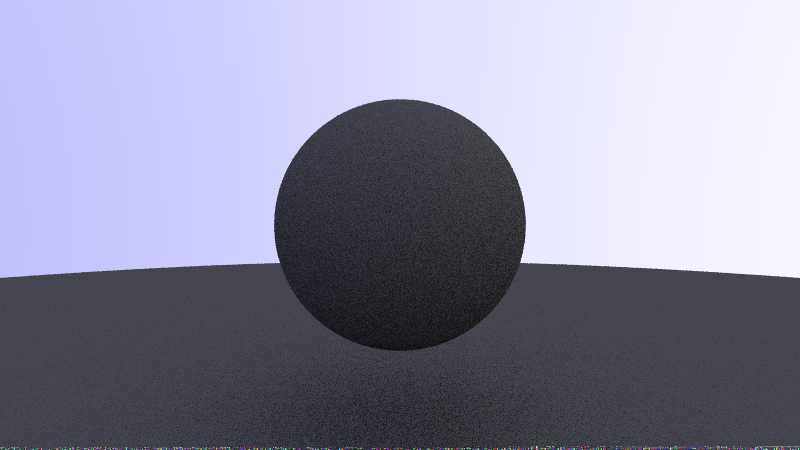
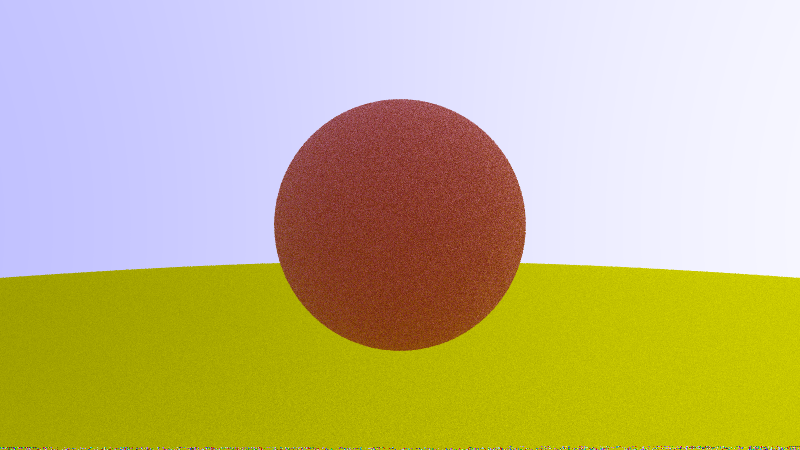
feat : made metal materials

diff --git a/lib/camera.h b/lib/camera.h
@@ -10,6 +10,7 @@
 #define STB_IMAGE_WRITE_IMPLEMENTATION
 #include "./stb_image_write.h"
 
+#include "material.h"
 #include "commons.h"
 #include "hittable.h"
 #include "color.h"
@@ -37,8 +38,8 @@ public:
 
                 for (int sample = 0 ; sample < sampling_factor ; sample++)
                 {
-                    auto dx = rnd_double() + -0.5;
-                    auto dy = rnd_double() + -0.5;
+                    auto dx = random_double() + -0.5;
+                    auto dy = random_double() + -0.5;
                     auto sample_point = point + dx*u_delta + dy*v_delta;
                     auto direction_pointer = sample_point - camera_center;
                     direction_pointer = unit_vector(direction_pointer);
@@ -57,7 +58,7 @@ public:
                 image_data[i * width * 3 + j * 3 + 2] += ib;
             }
         }
-        stbi_write_png("../Images/diffuse_Lambertian .png",width,height,3,image_data,width*3);
+        stbi_write_png("../Images/metal-diffuse.png",width,height,3,image_data,width*3);
     }
 private:
     int width{},height{};
@@ -91,9 +92,12 @@ private:
             return {0,0,0};
         if (world.hit(r,interval(0.0001,infinity),h))
         {
-            vec3 dir = unit_vector(h.normal + random_unit_vector());
-            ray dr(h.hp, dir);
-            return 0.1* ray_color(dr,world,depth-1);
+            ray scattered;
+            color attenuation;
+            if (h.mat->scatter(r,h,attenuation,scattered)) {
+                return attenuation * ray_color(scattered,world,depth-1);
+            }
+            return {0,0,0};
         }
         auto a = (r.get_direction().x() + 1.0)*0.5;
         auto c = a*color(1.0,1.0,1.0) + (1-a)*color (0.5,0.5,1.0);

diff --git a/lib/material.h b/lib/material.h
@@ -4,16 +4,52 @@
 
 #ifndef MATERIAL_H
 #define MATERIAL_H
+
 #include "commons.h"
-class hit_record;
+
+#include "hittable.h"
+
 
 class material{
 
 public:
     virtual ~material() = default;
 
-    virtual bool scatter(const ray& r_in,const hit_record& h, color& attenuation, ray& scattered) = 0;
+    virtual bool scatter(const ray& r_in,const hit_record& h, color& attenuation, ray& scattered) const = 0;
 };
 
+class lambertian : public material{
+public:
+    lambertian(const color& a) : albedo(a){}
 
+    bool scatter(const ray& r_in,const hit_record& h, color& attenuation, ray& scattered)
+    const override{
+        auto dir = unit_vector(h.hp + random_unit_vector());
+        if (dir.near_zero()){
+            dir = h.hp;
+        }
+        scattered = ray(h.hp, dir);
+        attenuation = albedo;
+        return true;
+    }
+
+private:
+    color albedo;
+};
+
+class metal : public material{
+public:
+    metal(const color& a) : albedo(a) {}
+
+    bool scatter(const ray& r_in, const hit_record& h, color& attenuation, ray& scattered)
+    const override {
+        vec3 reflected = reflect(unit_vector(r_in.get_direction()), h.normal);
+        scattered = ray(h.hp, reflected);
+        attenuation = albedo;
+        return true;
+    }
+
+private:
+    color albedo;
+};
 #endif //MATERIAL_H

diff --git a/main.cpp b/main.cpp
@@ -3,14 +3,26 @@
 #include "./lib/hittable_list.h"
 #include "./lib/sphere.h"
 #include "./lib/camera.h"
+#include "./lib/material.h"
+#include "./lib/color.h"
 
 using namespace std;
 int main() {
 
     //object creation on scene
     hittable_list world;
-    world.add(make_shared<sphere>(point3(0,0,-1), 0.3));
-    world.add(make_shared<sphere>(point3(0,-100.5,-1), 100));
+    auto material_ground = make_shared<lambertian>(color(0.8, 0.8, 0.0));
+    auto material_center = make_shared<lambertian>(color(0.7, 0.3, 0.3));
+    auto material_left   = make_shared<metal>(color(0.8, 0.8, 0.8));
+    auto material_right  = make_shared<metal>(color(0.8, 0.6, 0.2));
+
+
+
+
+    world.add(make_shared<sphere>(point3(0,0,-1), 0.3,material_center));
+    world.add(make_shared<sphere>(point3(0,-100.5,-1), 100,material_ground));
+    world.add(make_shared<sphere>(point3(-0.7,    0.0, -1.0),   0.3, material_left));
+    world.add(make_shared<sphere>(point3( 0.7,    0.0, -1.0),   0.3, material_right));
     //
     camera c;
     c.render(world);

diff --git a/lib/commons.h b/lib/commons.h
@@ -8,33 +8,39 @@
 #include <limits>
 #include "cstdlib"
 #include <memory>
-#include "interval.h"
-#include "color.h"
+
 
 // Usings
+
 using std::shared_ptr;
 using std::make_shared;
 using std::sqrt;
 
 // Constants
+
 const double infinity = std::numeric_limits<double>::infinity();
 const double pi = 3.1415926535897932385;
 
 // Utility Functions
+
 inline double degrees_to_radians(double degrees) {
     return degrees * pi / 180.0;
 }
-inline double rnd_double(){
-    return rand() / (RAND_MAX+1.0);
+
+inline double random_double() {
+    return rand() / (RAND_MAX + 1.0);
 }
-inline double rnd_double_rng(double min, double max){
-    return min + rnd_double()*(max-min);
+
+inline double random_double(double min, double max) {
+    return min + (max-min)*random_double();
 }
 
 // Common Headers
+
+#include "interval.h"
+#include "color.h"
 #include "ray.h"
 #include "vec3.h"
-
 
 
 #endif //COMMONS_H

diff --git a/lib/sphere.h b/lib/sphere.h
@@ -4,12 +4,14 @@
 
 #ifndef SPHERE_H
 #define SPHERE_H
+#include <utility>
 #include "commons.h"
 #include "hittable.h"
 #include "ray.h"
 class sphere : public hittable{
 public:
-    sphere(point3 center, double radius) : center(center), radius(radius){}
+    //Beware this std::move might create problems;
+    sphere(point3 center, double radius, shared_ptr<material> m) : center(center), radius(radius), mat(std::move(m)){}
     bool hit(ray &r, interval ray_i, hit_record &h) const override {
         auto oc = r.get_start() - center;
         auto a = dot(r.get_direction(),r.get_direction());
@@ -34,11 +36,13 @@ public:
         h.hp = r.at(root);
         auto normal = (h.hp - center)/radius;
         h.set_face_normal(r,normal);
+        h.mat = mat;
 
         return true;
     }
 private:
     vec3 center;
+    shared_ptr<material> mat;
     double radius;
 };
 #endif //SPHERE_H

diff --git a/lib/vec3.h b/lib/vec3.h
@@ -56,9 +56,13 @@ class vec3{
         double length(){
             return sqrt(length_squared());
         }
+        [[nodiscard]] bool near_zero() const {
+            auto s = 1e-8;
+            return (fabs(e[0]) < s) && (fabs(e[1]) < s) && (fabs(e[2]) < s);
+        }
 
         static vec3 random_vector(double min, double max){
-            return {rnd_double_rng(min,max),rnd_double_rng(min,max),rnd_double_rng(min,max)};
+            return {random_double(min,max),random_double(min,max),random_double(min,max)};
         }
 };
 using point3 = vec3;
@@ -113,6 +117,9 @@ inline vec3 random_on_hemisphere(const vec3& normal){
         return v;
     else
         return -v;
+}
+vec3 reflect(const vec3& v, const vec3& n) {
+    return v - 2*dot(v,n)*n;
 }
 #endif //VEC3_H
 

diff --git a/lib/hittable.h b/lib/hittable.h
@@ -4,11 +4,13 @@
 
 #ifndef HITTABLE_H
 #define HITTABLE_H
-#include "commons.h"
+class material;
+
 class hit_record{
 public:
     point3 hp;
     vec3 normal;
+    shared_ptr<material> mat;
     double t;
     bool front_face;
 
@@ -22,4 +24,5 @@ public:
     virtual ~hittable() = default;
     virtual bool hit (ray& r, interval ray_i, hit_record& h) const = 0;
 };
+
 #endif //HITTABLE_H

diff --git a/lib/ray.h b/lib/ray.h
@@ -9,7 +9,7 @@ class ray{
 public:
     ray()= default ;
 
-    ray(point3& start, vec3& direction) : direction(direction), start(start){}
+    ray(const point3& start,const vec3& direction) : direction(direction), start(start){}
 
     point3 get_start() const{
         return start;
